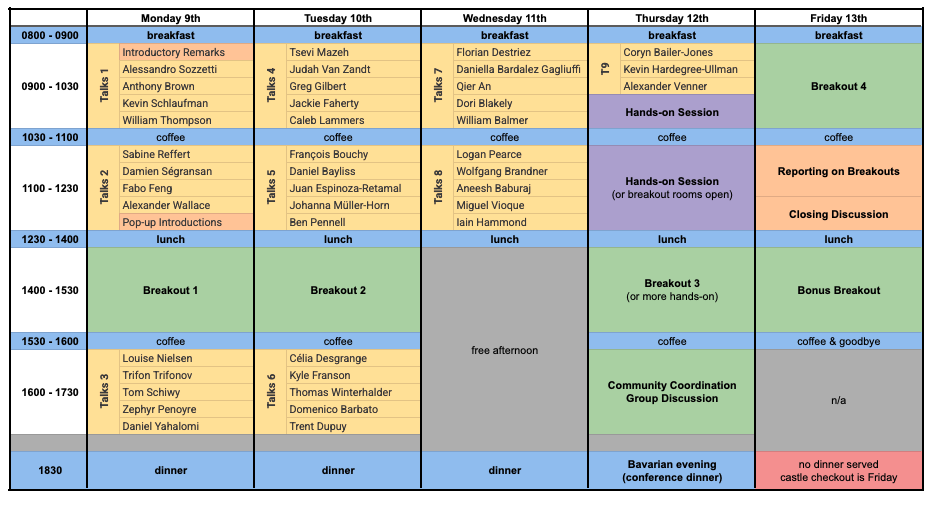
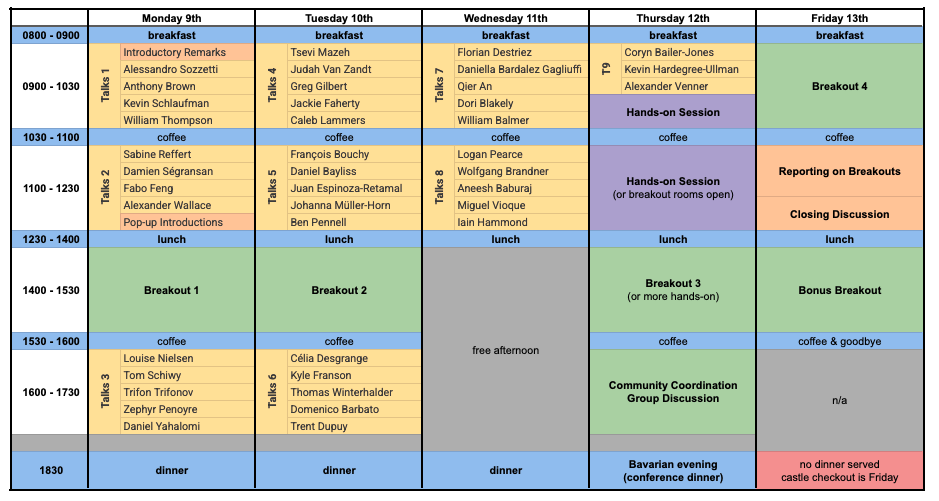
switched Tom and Trifon talks

diff --git a/docs/content/programme_detailed.md b/docs/content/programme_detailed.md
@@ -21,7 +21,7 @@ program:
       time: 09:00 - 10:30 -- Talks 1
       description: |2-
         Introductory Remarks (SOC)
-        Alessandro Sozzetti: TBA
+        Alessandro Sozzetti: Exoplanet demographics and Gaia: Expectations for DR4, and Beyond
         Anthony Brown: Gaia DR4 update and planned community resources
         Kevin Schlaufman: Overcoming Astrophysical False Positives to Realizing the Full Potential of Gaia Astrometry for Exoplanet Science
         William Thompson: Octofitter & Detecting Exoplanets with DR3
@@ -39,8 +39,8 @@ program:
       time: 1600 - 17:30 -- Talks 3
       description: |2-
         Louise Nielsen: TBA
-        Trifon Trifonov: Modeling Hipparcos, Gaia DR4, and RV data with the Exo-Striker 
         Tom Schiwy: combined fitting of Gaia DR4, Hipparcos, RVs and more
+        Trifon Trifonov: Modeling Hipparcos, Gaia DR4, and RV data with the Exo-Striker 
         zephyr penoyre: astrometric tools and challenges
         Daniel Yahalomi: When One Planet Looks Like Two: Degeneracies and Demographics of Cool Gas Giants with Gaia DR4
 
